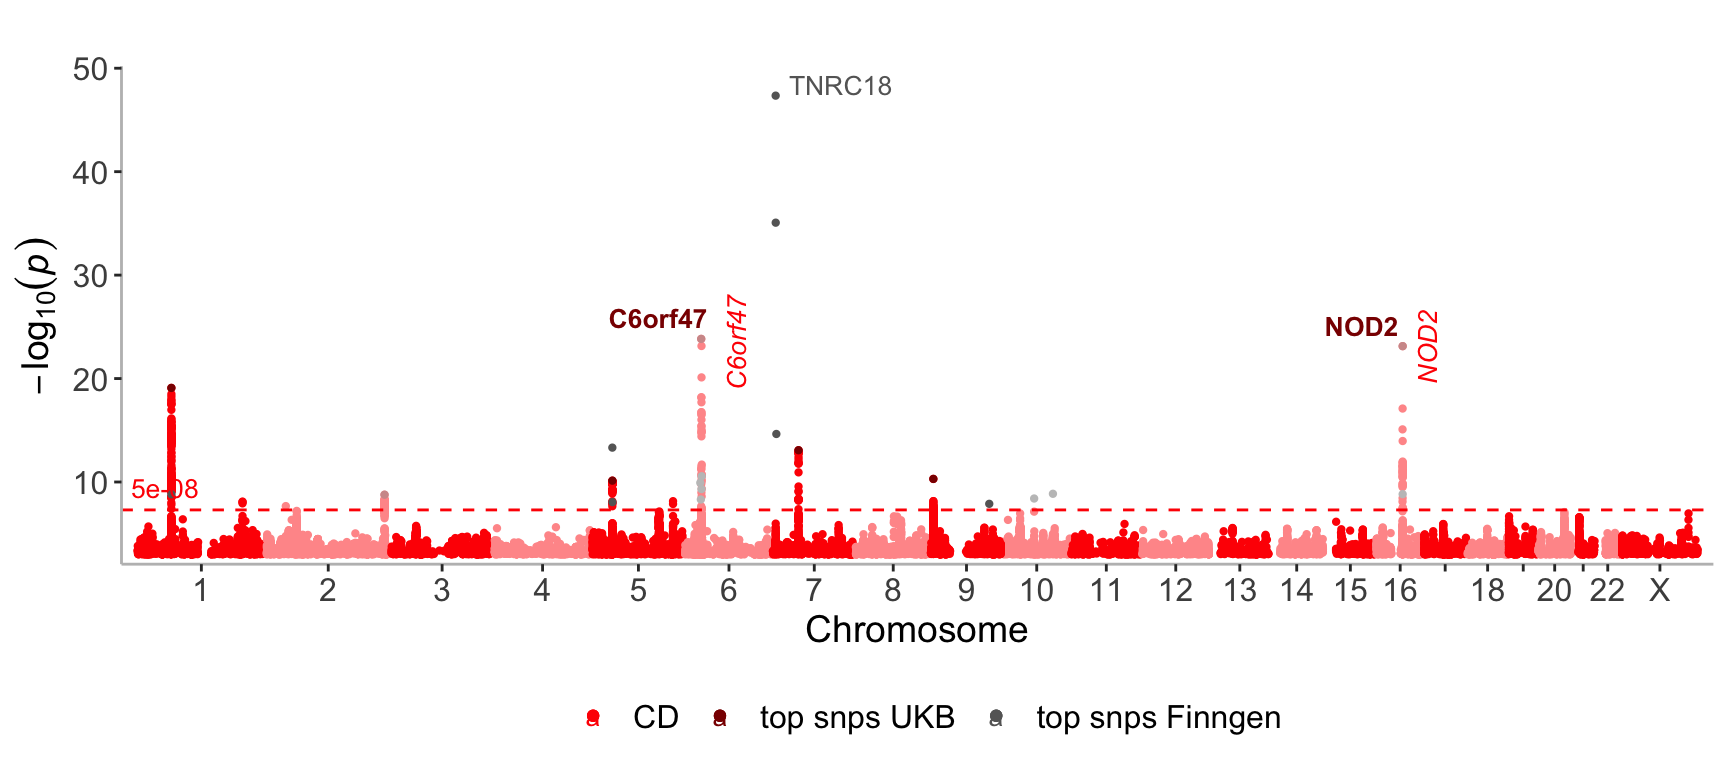
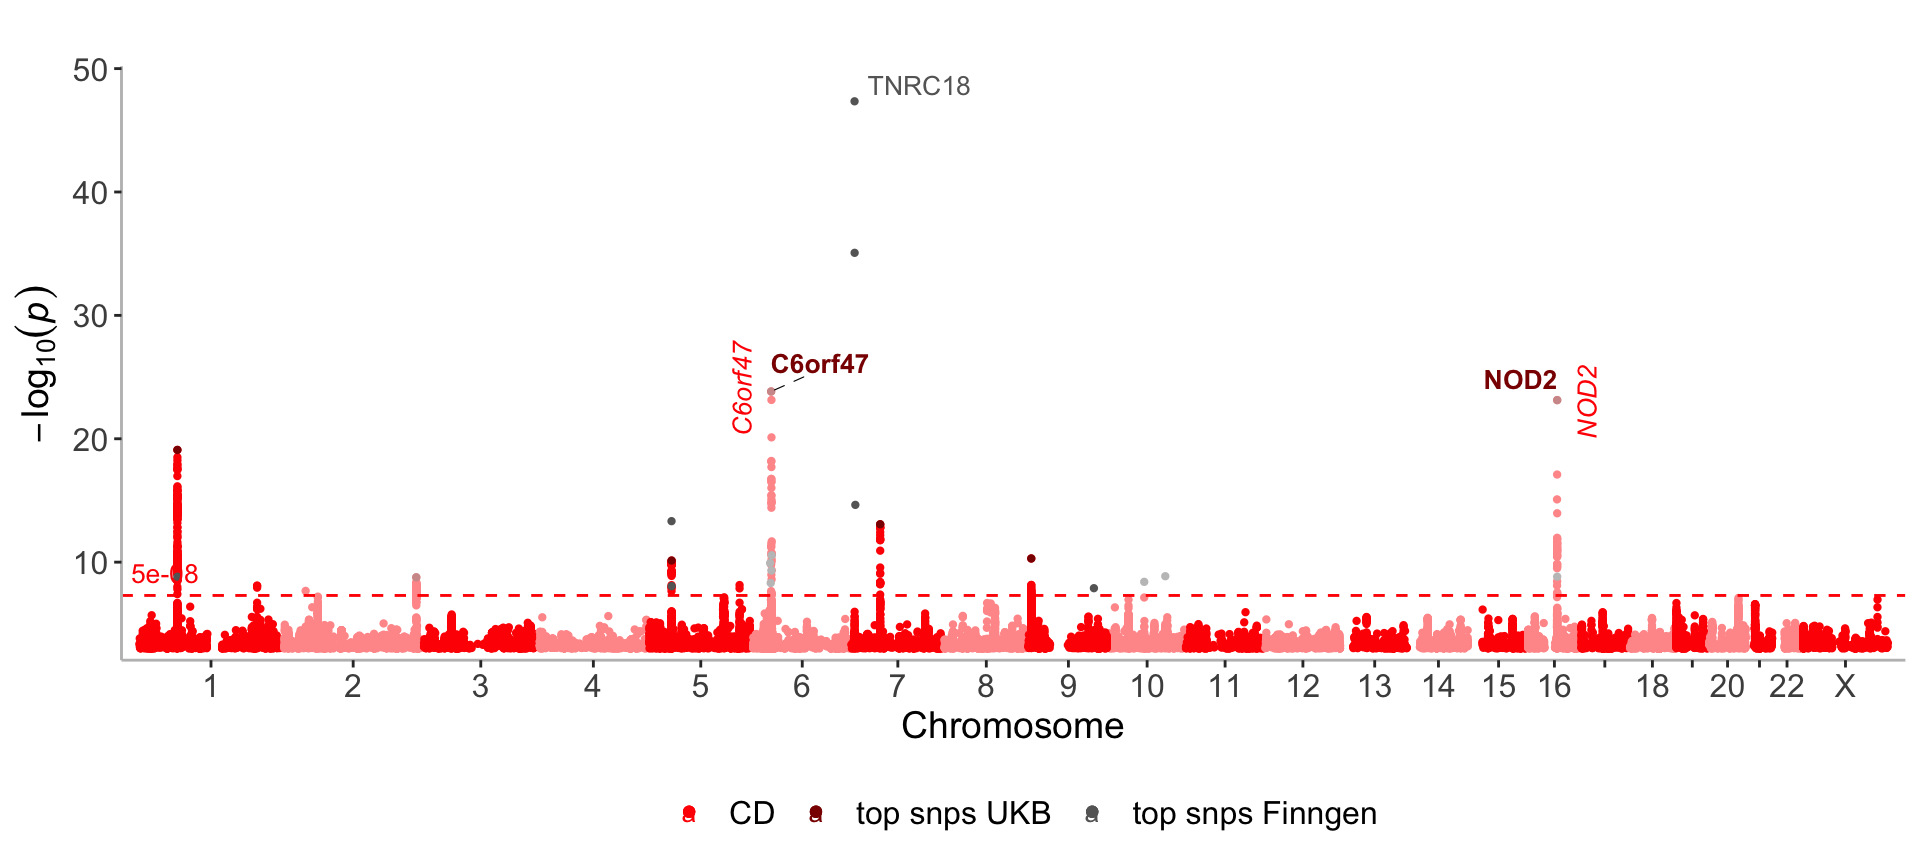
single/multi

diff --git a/docs/manhattan.html b/docs/manhattan.html
@@ -216,7 +216,7 @@ pre > code.sourceCode > span > a:first-child::before { text-decoration: underlin
 <div class="cell-output-display">
 <div>
 <figure class="figure">
-<p><img src="manhattan_files/figure-html/unnamed-chunk-2-1.png" class="img-fluid figure-img" width="960"></p>
+<p><img src="manhattan_files/figure-html/unnamed-chunk-3-1.png" class="img-fluid figure-img" width="960"></p>
 </figure>
 </div>
 </div>
@@ -227,7 +227,7 @@ pre > code.sourceCode > span > a:first-child::before { text-decoration: underlin
 <div class="cell-output-display">
 <div>
 <figure class="figure">
-<p><img src="manhattan_files/figure-html/unnamed-chunk-3-1.png" class="img-fluid figure-img" width="960"></p>
+<p><img src="manhattan_files/figure-html/unnamed-chunk-4-1.png" class="img-fluid figure-img" width="960"></p>
 </figure>
 </div>
 </div>
@@ -244,65 +244,51 @@ pre > code.sourceCode > span > a:first-child::before { text-decoration: underlin
 <div class="cell-output-display">
 <div>
 <figure class="figure">
-<p><img src="manhattan_files/figure-html/unnamed-chunk-5-1.png" class="img-fluid figure-img" width="864"></p>
+<p><img src="manhattan_files/figure-html/unnamed-chunk-6-1.png" class="img-fluid figure-img" width="960"></p>
 </figure>
 </div>
 </div>
 </div>
 <p>Change the annotation to vertical and italic. Reduce the size of all text by setting the <code>scale</code> argument to 0.9. Move the legend labels to the top.</p>
-<details>
-<summary>
-<i>Click here to see the command </i>
-</summary>
 <div class="cell">
 <div class="sourceCode cell-code" id="cb6"><pre class="sourceCode r code-with-copy"><code class="sourceCode r"><span id="cb6-1"><a href="#cb6-1" aria-hidden="true" tabindex="-1"></a><span class="fu">manhattan</span>(<span class="fu">list</span>(CD_UKBB, lead_snps), </span>
 <span id="cb6-2"><a href="#cb6-2" aria-hidden="true" tabindex="-1"></a>          <span class="at">annotate=</span><span class="fu">c</span>(<span class="fl">5e-100</span>, <span class="fl">5e-09</span>), </span>
 <span id="cb6-3"><a href="#cb6-3" aria-hidden="true" tabindex="-1"></a>          <span class="at">color=</span><span class="fu">c</span>(<span class="st">"darkblue"</span>,<span class="st">"red"</span>), </span>
 <span id="cb6-4"><a href="#cb6-4" aria-hidden="true" tabindex="-1"></a>          <span class="at">legend_labels=</span><span class="fu">c</span>(<span class="st">"CD UKBB"</span>, <span class="st">"Lead snp's"</span>), </span>
-<span id="cb6-5"><a href="#cb6-5" aria-hidden="true" tabindex="-1"></a>          <span class="at">size=</span><span class="fu">c</span>(<span class="dv">1</span>,<span class="fl">1.7</span>),</span>
+<span id="cb6-5"><a href="#cb6-5" aria-hidden="true" tabindex="-1"></a>          <span class="at">size=</span><span class="fu">c</span>(<span class="dv">1</span>,<span class="dv">2</span>),</span>
 <span id="cb6-6"><a href="#cb6-6" aria-hidden="true" tabindex="-1"></a>          <span class="at">shape=</span><span class="fu">c</span>(<span class="dv">19</span>,<span class="dv">8</span>), </span>
-<span id="cb6-7"><a href="#cb6-7" aria-hidden="true" tabindex="-1"></a>          <span class="at">label_size =</span> <span class="fl">3.7</span>, </span>
-<span id="cb6-8"><a href="#cb6-8" aria-hidden="true" tabindex="-1"></a>          <span class="at">angle =</span> <span class="dv">90</span>, </span>
-<span id="cb6-9"><a href="#cb6-9" aria-hidden="true" tabindex="-1"></a>          <span class="at">label_fontface =</span> <span class="st">"italic"</span>, </span>
-<span id="cb6-10"><a href="#cb6-10" aria-hidden="true" tabindex="-1"></a>          <span class="at">nudge_y =</span> <span class="dv">5</span>, </span>
-<span id="cb6-11"><a href="#cb6-11" aria-hidden="true" tabindex="-1"></a>          <span class="at">scale=</span><span class="fl">0.9</span>, </span>
-<span id="cb6-12"><a href="#cb6-12" aria-hidden="true" tabindex="-1"></a>          <span class="at">legend_position =</span> <span class="st">"top"</span>, </span>
-<span id="cb6-13"><a href="#cb6-13" aria-hidden="true" tabindex="-1"></a>          <span class="at">ymax=</span><span class="dv">32</span>,  </span>
-<span id="cb6-14"><a href="#cb6-14" aria-hidden="true" tabindex="-1"></a>          <span class="at">even_no_chr_lightness =</span> <span class="fu">c</span>(<span class="fl">0.8</span>,<span class="fl">0.5</span>),</span>
-<span id="cb6-15"><a href="#cb6-15" aria-hidden="true" tabindex="-1"></a>          <span class="at">verbose=</span>F) </span></code><button title="Copy to Clipboard" class="code-copy-button"><i class="bi"></i></button></pre></div>
+<span id="cb6-7"><a href="#cb6-7" aria-hidden="true" tabindex="-1"></a>          <span class="at">angle =</span> <span class="dv">90</span>, </span>
+<span id="cb6-8"><a href="#cb6-8" aria-hidden="true" tabindex="-1"></a>          <span class="at">label_fontface =</span> <span class="st">"italic"</span>, </span>
+<span id="cb6-9"><a href="#cb6-9" aria-hidden="true" tabindex="-1"></a>          <span class="at">nudge_y =</span> <span class="dv">5</span>, </span>
+<span id="cb6-10"><a href="#cb6-10" aria-hidden="true" tabindex="-1"></a>          <span class="at">scale=</span><span class="fl">0.9</span>, </span>
+<span id="cb6-11"><a href="#cb6-11" aria-hidden="true" tabindex="-1"></a>          <span class="at">legend_position =</span> <span class="st">"top"</span>, </span>
+<span id="cb6-12"><a href="#cb6-12" aria-hidden="true" tabindex="-1"></a>          <span class="at">ymax=</span><span class="dv">32</span>,  </span>
+<span id="cb6-13"><a href="#cb6-13" aria-hidden="true" tabindex="-1"></a>          <span class="at">even_no_chr_lightness =</span> <span class="fu">c</span>(<span class="fl">0.8</span>,<span class="fl">0.5</span>),</span>
+<span id="cb6-14"><a href="#cb6-14" aria-hidden="true" tabindex="-1"></a>          <span class="at">verbose=</span>F) </span></code><button title="Copy to Clipboard" class="code-copy-button"><i class="bi"></i></button></pre></div>
 <div class="cell-output-display">
 <div>
 <figure class="figure">
-<p><img src="manhattan_files/figure-html/unnamed-chunk-6-1.png" class="img-fluid figure-img" width="864"></p>
+<p><img src="manhattan_files/figure-html/unnamed-chunk-7-1.png" class="img-fluid figure-img" width="960"></p>
 </figure>
 </div>
 </div>
 </div>
-</details>
-<details>
-<summary>
-<i>Click here to see the command </i>
-</summary>
-</details>
 <div class="cell">
-<div class="sourceCode cell-code" id="cb7"><pre class="sourceCode r code-with-copy"><code class="sourceCode r"><span id="cb7-1"><a href="#cb7-1" aria-hidden="true" tabindex="-1"></a>mh</span></code><button title="Copy to Clipboard" class="code-copy-button"><i class="bi"></i></button></pre></div>
+<div class="sourceCode cell-code" id="cb7"><pre class="sourceCode r code-with-copy"><code class="sourceCode r"><span id="cb7-1"><a href="#cb7-1" aria-hidden="true" tabindex="-1"></a>top_snps_finngen <span class="ot">&lt;-</span> <span class="fu">get_lead_snps</span>(CD_FINNGEN)</span>
+<span id="cb7-2"><a href="#cb7-2" aria-hidden="true" tabindex="-1"></a><span class="fu">manhattan</span>(<span class="fu">list</span>(CD_UKBB, lead_snps, top_snps_finngen),  </span>
+<span id="cb7-3"><a href="#cb7-3" aria-hidden="true" tabindex="-1"></a>          <span class="at">color=</span><span class="fu">c</span>(<span class="st">"red"</span>,<span class="st">"darkred"</span>,<span class="st">"gray40"</span>),</span>
+<span id="cb7-4"><a href="#cb7-4" aria-hidden="true" tabindex="-1"></a>          <span class="at">label_fontface =</span> <span class="fu">c</span>(<span class="st">"italic"</span>,<span class="st">"bold"</span>,<span class="st">"plain"</span>), </span>
+<span id="cb7-5"><a href="#cb7-5" aria-hidden="true" tabindex="-1"></a>          <span class="at">angle=</span><span class="fu">c</span>(<span class="dv">90</span>,<span class="dv">0</span>,<span class="dv">0</span>),</span>
+<span id="cb7-6"><a href="#cb7-6" aria-hidden="true" tabindex="-1"></a>          <span class="at">legend_labels =</span> <span class="fu">c</span>(<span class="st">"CD"</span>,<span class="st">"top snps UKB"</span>, <span class="st">"top snps Finngen"</span>),</span>
+<span id="cb7-7"><a href="#cb7-7" aria-hidden="true" tabindex="-1"></a>          <span class="at">annotate=</span><span class="fl">1e-20</span>)</span></code><button title="Copy to Clipboard" class="code-copy-button"><i class="bi"></i></button></pre></div>
 <div class="cell-output-display">
 <div>
 <figure class="figure">
-<p><img src="manhattan_files/figure-html/unnamed-chunk-8-1.png" class="img-fluid figure-img" width="864"></p>
+<p><img src="manhattan_files/figure-html/unnamed-chunk-8-1.png" class="img-fluid figure-img" width="960"></p>
 </figure>
 </div>
 </div>
 </div>
-<summary>
-<i>Click here to see the command </i>
-</summary>
-<div class="cell">
-<div class="sourceCode cell-code" id="cb8"><pre class="sourceCode r code-with-copy"><code class="sourceCode r"><span id="cb8-1"><a href="#cb8-1" aria-hidden="true" tabindex="-1"></a>top_snps_finngen <span class="ot">&lt;-</span> <span class="fu">get_lead_snps</span>(CD_FINNGEN)</span>
-<span id="cb8-2"><a href="#cb8-2" aria-hidden="true" tabindex="-1"></a>mh <span class="ot">&lt;-</span> <span class="fu">manhattan</span>(<span class="fu">list</span>(CD_UKBB, lead_snps, top_snps_finngen),  <span class="at">color=</span><span class="fu">c</span>(<span class="st">"red"</span>,<span class="st">"darkred"</span>,<span class="st">"gray40"</span>),<span class="at">label_fontface =</span> <span class="fu">c</span>(<span class="st">"italic"</span>,<span class="st">"bold"</span>,<span class="st">"plain"</span>), <span class="at">angle=</span><span class="fu">c</span>(<span class="dv">90</span>,<span class="dv">0</span>,<span class="dv">0</span>),</span>
-<span id="cb8-3"><a href="#cb8-3" aria-hidden="true" tabindex="-1"></a>          <span class="at">legend_labels =</span> <span class="fu">c</span>(<span class="st">"CD"</span>,<span class="st">"top snps UKB"</span>, <span class="st">"top snps Finngen"</span>),<span class="at">annotate=</span><span class="fl">1e-20</span>, <span class="at">build=</span>enshuman<span class="sc">::</span>hg38)</span></code><button title="Copy to Clipboard" class="code-copy-button"><i class="bi"></i></button></pre></div>
-</div>
-
 </section>
 <section id="multi-gwas" class="level2">
 <h2 class="anchored" data-anchor-id="multi-gwas">Multi GWAS</h2>

diff --git a/docs/index.html b/docs/index.html
@@ -179,7 +179,7 @@ pre > code.sourceCode > span > a:first-child::before { text-decoration: underlin
     <h2 id="toc-title">On this page</h2>
    
   <ul>
-  <li><a href="#manhattan" id="toc-manhattan" class="nav-link active" data-scroll-target="#manhattan">Manhattan</a>
+  <li><a href="#manhattan" id="toc-manhattan" class="nav-link active" data-scroll-target="#manhattan">manhattan</a>
   <ul class="collapse">
   <li><a href="#single-gwas" id="toc-single-gwas" class="nav-link" data-scroll-target="#single-gwas">Single GWAS</a></li>
   <li><a href="#multi-gwas" id="toc-multi-gwas" class="nav-link" data-scroll-target="#multi-gwas">Multi GWAS</a></li>
@@ -190,8 +190,8 @@ pre > code.sourceCode > span > a:first-child::before { text-decoration: underlin
   <li><a href="#multi-gwas-1" id="toc-multi-gwas-1" class="nav-link" data-scroll-target="#multi-gwas-1">Multi GWAS</a></li>
   </ul></li>
   <li><a href="#locuszoom" id="toc-locuszoom" class="nav-link" data-scroll-target="#locuszoom">locuszoom</a></li>
-  <li><a href="#effectplot" id="toc-effectplot" class="nav-link" data-scroll-target="#effectplot">effectplot</a></li>
   <li><a href="#ggforesttopr" id="toc-ggforesttopr" class="nav-link" data-scroll-target="#ggforesttopr">ggforesttopr</a></li>
+  <li><a href="#effectplot" id="toc-effectplot" class="nav-link" data-scroll-target="#effectplot">effectplot</a></li>
   </ul>
 </nav>
     </div>
@@ -217,12 +217,12 @@ pre > code.sourceCode > span > a:first-child::before { text-decoration: underlin
 </header>
 
 
-<p>Examples of basic usage. For more examples on how to use each plotting function select the corresponding function name from the top navigation bar.</p>
+<p>Examples of basic usage. For more examples on how to use each plotting function select the function name from the top navigation bar.</p>
 <div class="cell">
 <div class="sourceCode cell-code" id="cb1"><pre class="sourceCode r code-with-copy"><code class="sourceCode r"><span id="cb1-1"><a href="#cb1-1" aria-hidden="true" tabindex="-1"></a><span class="fu">library</span>(topr)</span></code><button title="Copy to Clipboard" class="code-copy-button"><i class="bi"></i></button></pre></div>
 </div>
 <section id="manhattan" class="level2">
-<h2 class="anchored" data-anchor-id="manhattan">Manhattan</h2>
+<h2 class="anchored" data-anchor-id="manhattan">manhattan</h2>
 <section id="single-gwas" class="level3">
 <h3 class="anchored" data-anchor-id="single-gwas">Single GWAS</h3>
 <div class="cell">
@@ -251,6 +251,7 @@ pre > code.sourceCode > span > a:first-child::before { text-decoration: underlin
 </div>
 </div>
 </div>
+<p>See <a href="https://totajuliusd.github.io/topr_manual/manhattan.html">manhattan</a> for more examples and common use cases.</p>
 </section>
 </section>
 <section id="regionplot" class="level2">
@@ -287,6 +288,7 @@ pre > code.sourceCode > span > a:first-child::before { text-decoration: underlin
 </div>
 </div>
 </div>
+<p>See <a href="https://totajuliusd.github.io/topr_manual/regionplot.html">regionplot</a> for more examples.</p>
 </section>
 </section>
 <section id="locuszoom" class="level2">
@@ -305,36 +307,42 @@ pre > code.sourceCode > span > a:first-child::before { text-decoration: underlin
 </div>
 </div>
 </section>
-<section id="effectplot" class="level2">
-<h2 class="anchored" data-anchor-id="effectplot">effectplot</h2>
+<section id="ggforesttopr" class="level2">
+<h2 class="anchored" data-anchor-id="ggforesttopr">ggforesttopr</h2>
+<p><strong>ggforesttopr</strong> will be available in the next <em>topr</em> release (v.2.0.1)</p>
 <div class="cell">
-<div class="sourceCode cell-code" id="cb11"><pre class="sourceCode r code-with-copy"><code class="sourceCode r"><span id="cb11-1"><a href="#cb11-1" aria-hidden="true" tabindex="-1"></a><span class="fu">effectplot</span>(<span class="fu">list</span>(CD_UKBB, CD_FINNGEN), <span class="at">annotate=</span><span class="fl">5e-4</span>)</span></code><button title="Copy to Clipboard" class="code-copy-button"><i class="bi"></i></button></pre></div>
+<div class="sourceCode cell-code" id="cb11"><pre class="sourceCode r code-with-copy"><code class="sourceCode r"><span id="cb11-1"><a href="#cb11-1" aria-hidden="true" tabindex="-1"></a><span class="fu">ggforesttopr</span>(<span class="fu">list</span>(CD_UKBB, CD_FINNGEN))</span></code><button title="Copy to Clipboard" class="code-copy-button"><i class="bi"></i></button></pre></div>
+</div>
+<div class="cell">
 <div class="cell-output-display">
 <div>
 <figure class="figure">
-<p><img src="index_files/figure-html/unnamed-chunk-7-1.png" class="img-fluid figure-img" width="480"></p>
-</figure>
-</div>
-</div>
-</div>
-<div class="cell">
-<div class="sourceCode cell-code" id="cb12"><pre class="sourceCode r code-with-copy"><code class="sourceCode r"><span id="cb12-1"><a href="#cb12-1" aria-hidden="true" tabindex="-1"></a> <span class="fu">effectplot</span>(<span class="fu">list</span>(CD_FINNGEN, CD_UKBB), <span class="at">color =</span> <span class="fu">get_topr_colors</span>()[<span class="dv">2</span>], <span class="at">annotate=</span><span class="fl">5e-4</span>)</span></code><button title="Copy to Clipboard" class="code-copy-button"><i class="bi"></i></button></pre></div>
-<div class="cell-output-display">
-<div>
-<figure class="figure">
-<p><img src="index_files/figure-html/unnamed-chunk-8-1.png" class="img-fluid figure-img" width="480"></p>
+<p><img src="index_files/figure-html/unnamed-chunk-11-1.png" class="img-fluid figure-img" width="672"></p>
 </figure>
 </div>
 </div>
 </div>
 </section>
-<section id="ggforesttopr" class="level2">
-<h2 class="anchored" data-anchor-id="ggforesttopr">ggforesttopr</h2>
-<p>See https://totajuliusd.github.io/topr_manual/</p>
+<section id="effectplot" class="level2">
+<h2 class="anchored" data-anchor-id="effectplot">effectplot</h2>
 <div class="cell">
-<div class="sourceCode cell-code" id="cb13"><pre class="sourceCode r code-with-copy"><code class="sourceCode r"><span id="cb13-1"><a href="#cb13-1" aria-hidden="true" tabindex="-1"></a><span class="dv">1</span> <span class="sc">+</span> <span class="dv">1</span></span></code><button title="Copy to Clipboard" class="code-copy-button"><i class="bi"></i></button></pre></div>
-<div class="cell-output cell-output-stdout">
-<pre><code>[1] 2</code></pre>
+<div class="sourceCode cell-code" id="cb12"><pre class="sourceCode r code-with-copy"><code class="sourceCode r"><span id="cb12-1"><a href="#cb12-1" aria-hidden="true" tabindex="-1"></a><span class="fu">effectplot</span>(<span class="fu">list</span>(CD_UKBB, CD_FINNGEN), <span class="at">annotate=</span><span class="fl">5e-4</span>)</span></code><button title="Copy to Clipboard" class="code-copy-button"><i class="bi"></i></button></pre></div>
+<div class="cell-output-display">
+<div>
+<figure class="figure">
+<p><img src="index_files/figure-html/unnamed-chunk-12-1.png" class="img-fluid figure-img" width="480"></p>
+</figure>
+</div>
+</div>
+</div>
+<div class="cell">
+<div class="sourceCode cell-code" id="cb13"><pre class="sourceCode r code-with-copy"><code class="sourceCode r"><span id="cb13-1"><a href="#cb13-1" aria-hidden="true" tabindex="-1"></a> <span class="fu">effectplot</span>(<span class="fu">list</span>(CD_FINNGEN, CD_UKBB), <span class="at">color =</span> <span class="fu">get_topr_colors</span>()[<span class="dv">2</span>], <span class="at">annotate=</span><span class="fl">5e-4</span>)</span></code><button title="Copy to Clipboard" class="code-copy-button"><i class="bi"></i></button></pre></div>
+<div class="cell-output-display">
+<div>
+<figure class="figure">
+<p><img src="index_files/figure-html/unnamed-chunk-13-1.png" class="img-fluid figure-img" width="480"></p>
+</figure>
+</div>
 </div>
 </div>
 
